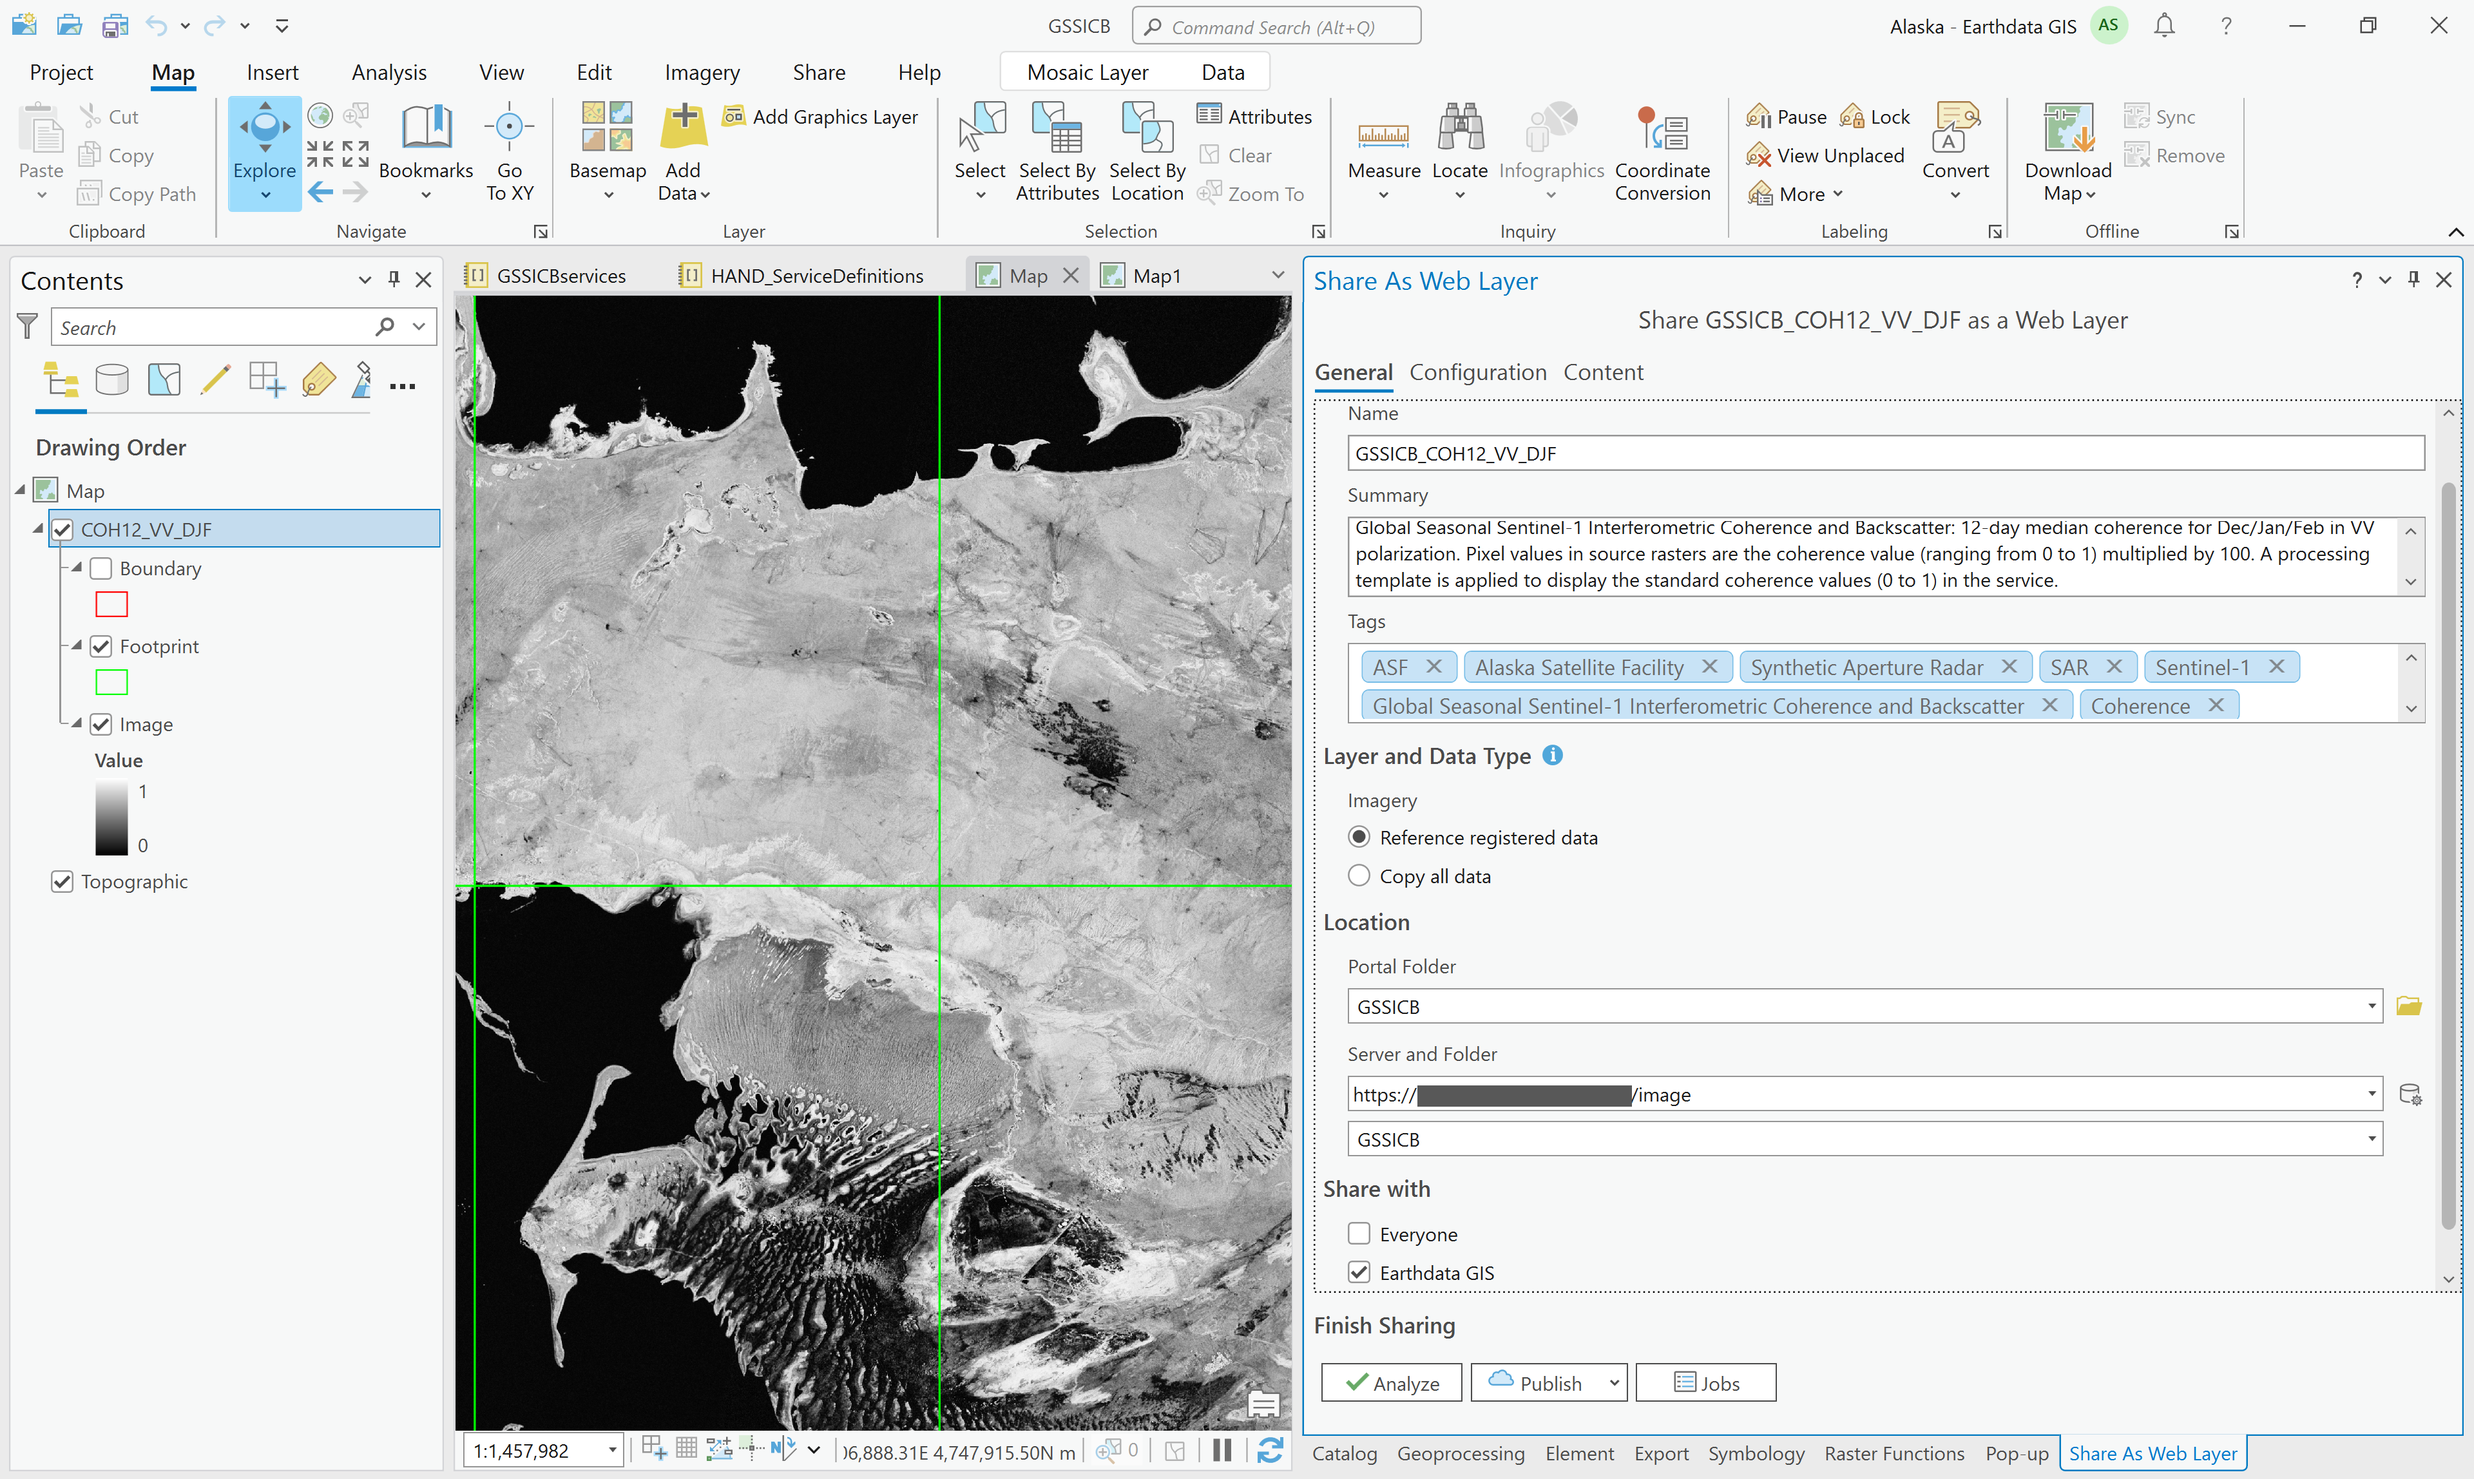
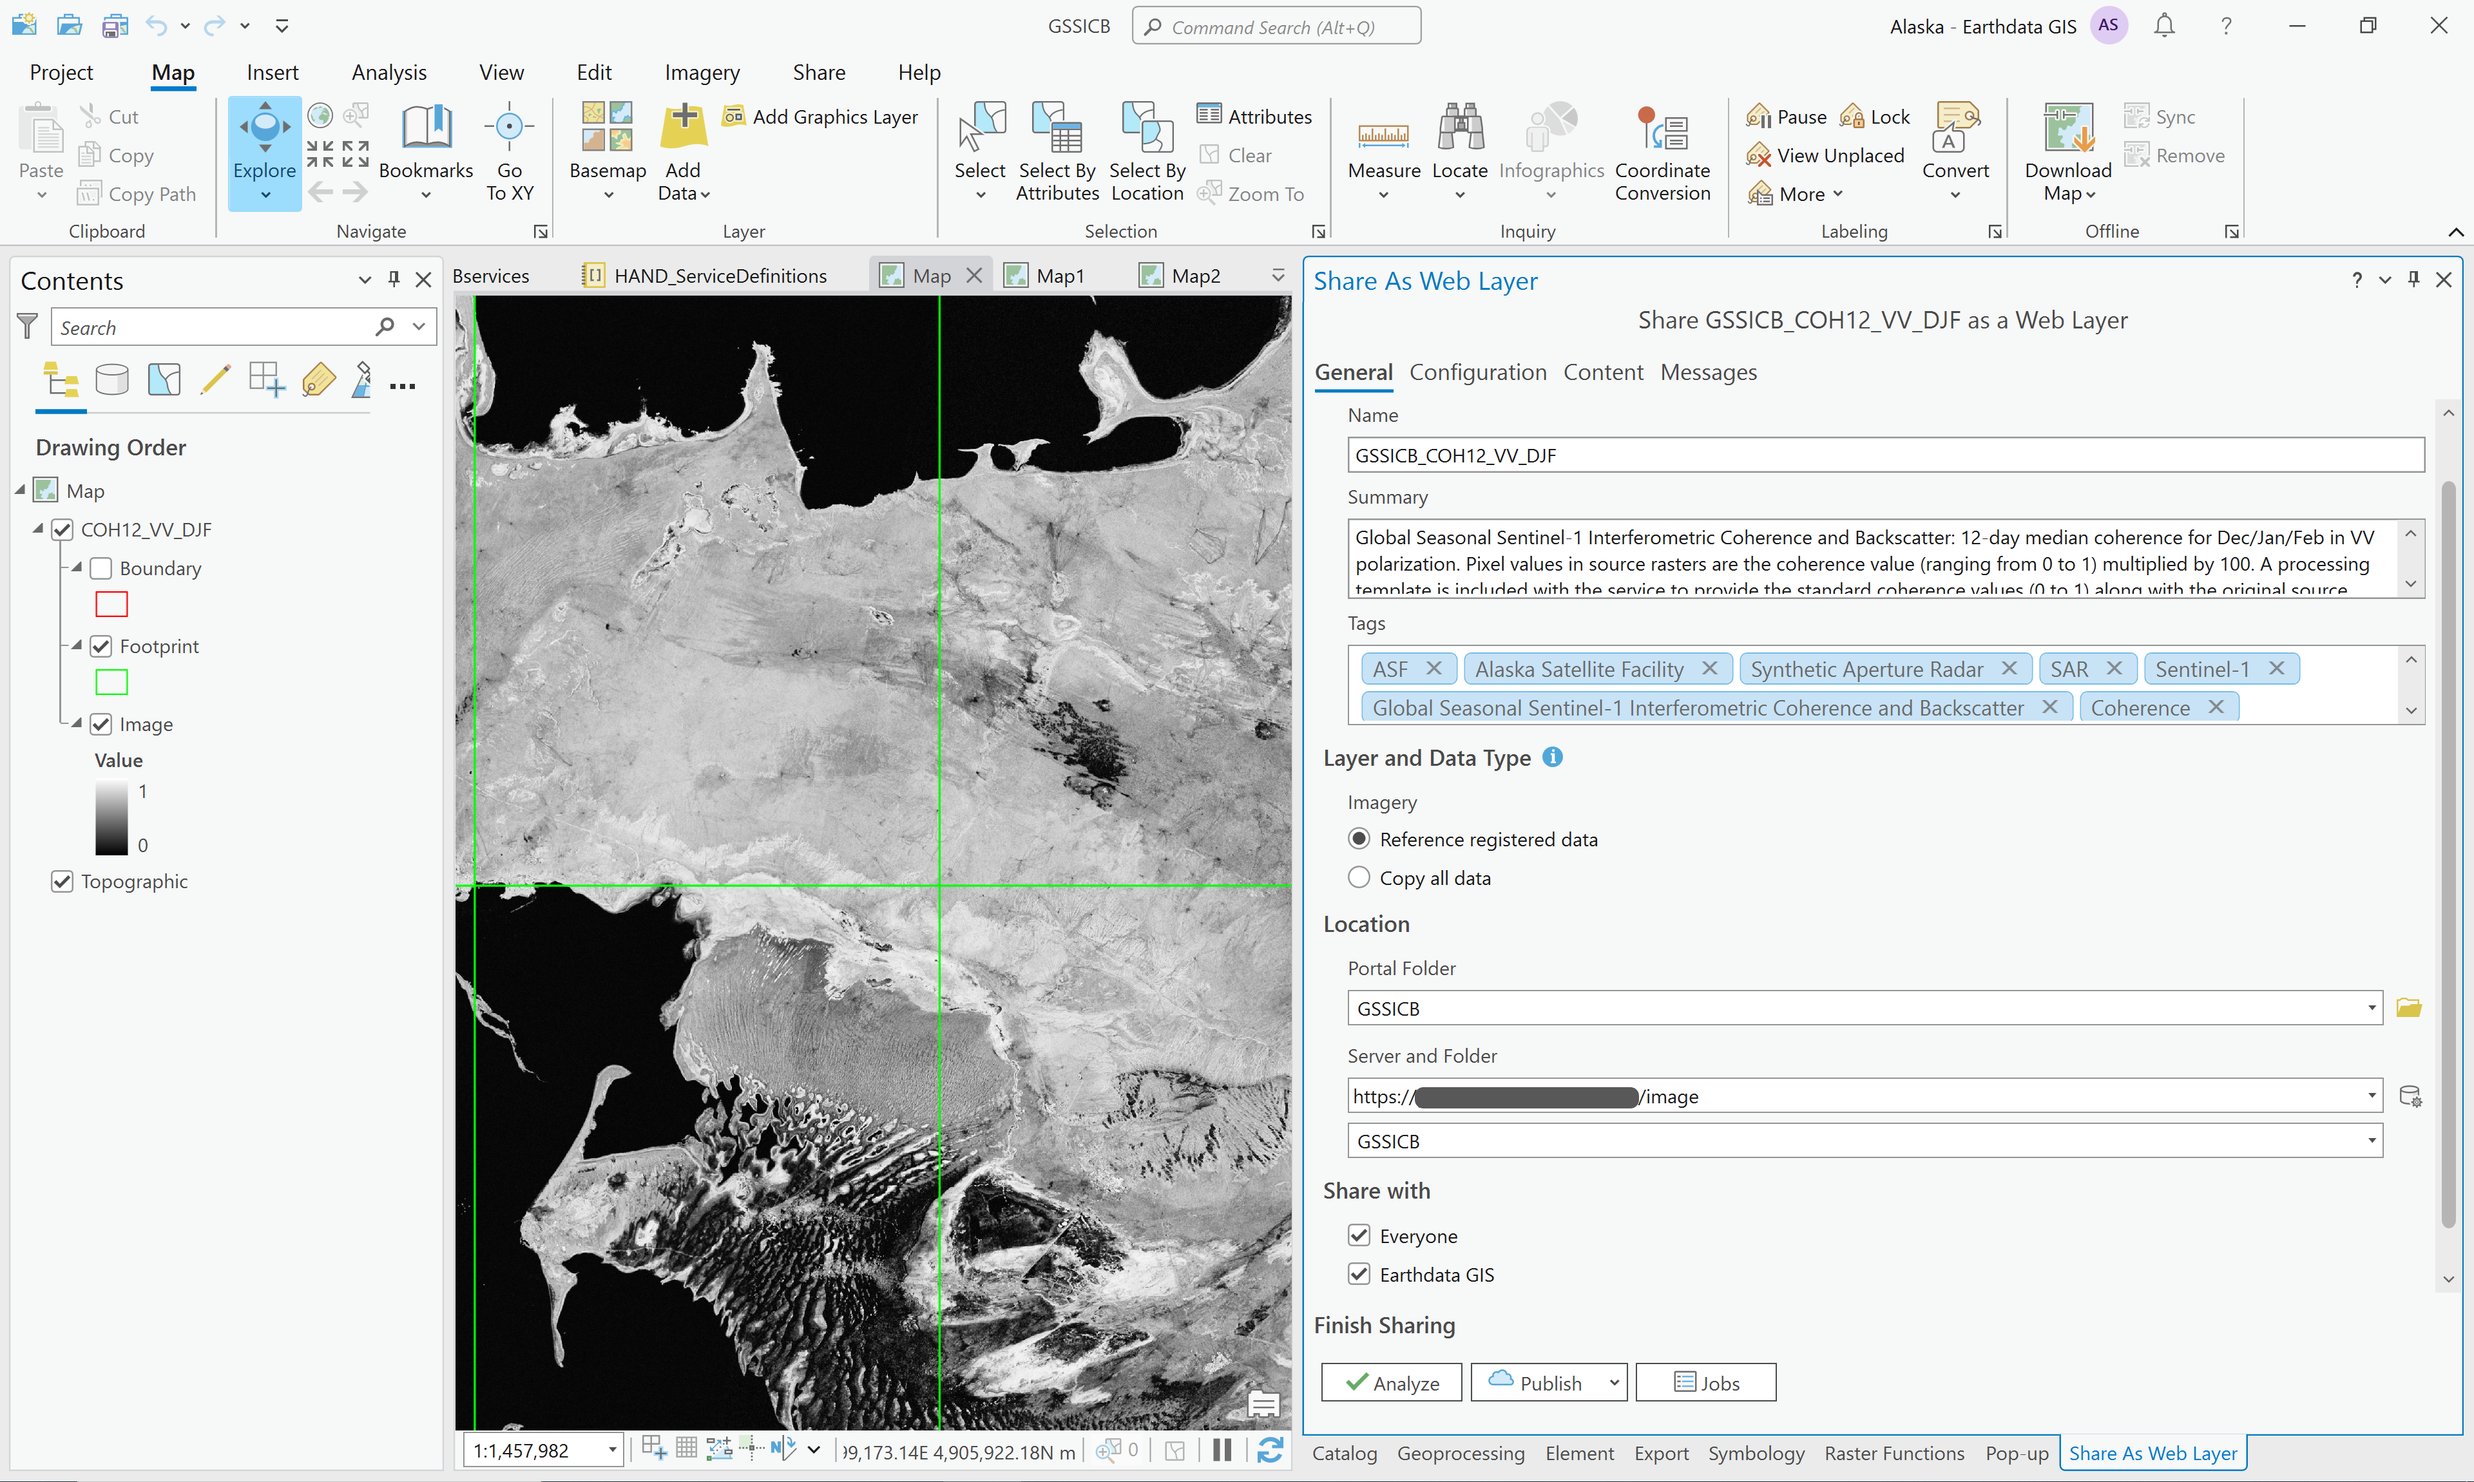
add step to repair pixel cache path and subdivide publishing section

diff --git a/image_services/egis/publishing_MDCS_to_EGIS.md b/image_services/egis/publishing_MDCS_to_EGIS.md
@@ -12,25 +12,48 @@ Publishers must add the NASA SIT Portal to their list of portals in ArcGIS. This
 5. Click OK
 6. Click on the options button for the portal, and choose to sign in. You will need to be on the VPN to work with this portal, including signing in.
 
-**It's easiest to connect to the NASA VPN first before creating the ArcGIS Project you'll be using for publishing, and always connect to the VPN before opening that project going forward.**
+**It's easiest to connect to the NASA VPN first before creating the ArcGIS Project you'll be using for publishing, and always connect to the VPN before opening that project going forward when the active portal is set to the SIT environment.**
 
-## Publish a Service
+*The same workflow is used for publishing to the NASA UAT Portal; simply connect to that portal in ArcGIS Pro rather than the NASA SIT Portal.*
+
+## Verify that the Mosaic Dataset paths are correct
 
 1. Navigate to the geodatabase with the mosaic dataset in the Catalog pane in ArcGIS Pro
 2. Expand the geodatabase to view the mosaic dataset
 3. Drag the mosaic dataset into the map view and verify that it behaves as expected
-4. Right-click the mosaic dataset in the Catalog pane, and select Edit Metadata
+   1. In many cases, the overviews will display correctly and the attribute table contains records for all of the source rasters, but the source rasters do not render. Zoom in to a single source raster, and make sure that it renders at all zoom levels.
+   2. If the source rasters render appropriately, skip the next step and proceed to editing the metadata
+
+## Repair Mosaic Dataset Pixel Cache Path (IF NECESSARY)
+
+If the source rasters do not render correctly, try repairing the path to the pixel cache in the mosaic dataset.
+
+1. Right-click on the Mosaic Dataset in the Table of Contents and select Data > Repair Mosaic Dataset Paths
+![Repair Paths](images/RepairPaths.PNG)
+2. Scroll to the path to the PixelCache directory, and replace it with a path on your local computer.
+![Pixel Cache Path](images/PixelCachePath.PNG)
+3. Click OK to exit the dialog
+
+## Edit the Metadata for the Mosaic Dataset
+
+1. Right-click the mosaic dataset in the Catalog pane, and select Edit Metadata
 ![Edit Metadata Figure](images/EditMetadata.PNG)
-5. Populate the Title, Tags, Summary, Description and Credits sections and click the Save button at the top of the window
-6. Right-click the mosaic dataset in the Catalog pane and select Share As Web Layer
+2. Populate the Title, Tags, Summary, Description and Credits sections and click the Save button at the top of the window
+
+## Publish the Mosaic Dataset as an Image Service
+
+1. Right-click the mosaic dataset in the Catalog pane and select Share As Web Layer
 ![Share As Web Layer](images/ShareAsWebLayer.PNG)
-7. Select the options in the General tab
+2. Set the options in the General tab
 ![Share As Web Layer Dialog](images/ShareAsWebLayerDialog.PNG)
    1. Set the Portal Folder to GSSICB
    2. Set the Server to https://url_to_gis_server/image (this is not the default in the Server dropdown menu, and if this is not changed, there will be a licensing error)
    3. Set the server Folder to GSSICB
-   4. Select Earthdata GIS under the Share options
-8. Click the Analyze button
+   4. Select Everyone and Earthdata GIS under the Share options
+3. Set the options in the Configuration tab
+![Configuration Settings](images/WMS.PNG)
+   1. Check the box next to WMS under the Additional Layers section
+4. Click the Analyze button
    1. There is the possibility that a number of errors and warnings will be identified.
 ![Unique Numeric IDs Error](images/UniqueNumericIDs.PNG)
       1. The licensing error occurs when the server option has not been changed to the /image option in the dropdown menu
@@ -38,7 +61,15 @@ Publishers must add the NASA SIT Portal to their list of portals in ArcGIS. This
       3. The data source is recognized as not being in a registered location, and will warn that the data will be copied to the server. This is fine. It's not copying all the source rasters, but just the metadata and other necessary data.
       4. Mosaic dataset items are not analyzed. This is also okay.
    2. If there are errors identified, they must be fixed before publishing is possible. Warnings do not need to be fixed (unless it identifies something that should be addressed, like missing metadata, etc.)
-9. Click the Publish button
-   1. It will take a while to stage and publish the service
-10. Once the publishing process is complete, the service will be listed in the portal in the Content tab, inside the GSSICB folder.
-    1. The item description contains all the metadata set in ArcGIS Pro. There's a link under the Layer section that takes you to the REST Endpoint metadata page.
+5. Click the Publish button
+6. It will take a while to stage and publish the service
+7. Once the publishing process is complete, the service will be listed in the portal in the Content tab, inside the GSSICB folder.
+   1. The item description contains all the metadata set in ArcGIS Pro. There's a link under the Layer section that takes you to the REST Endpoint metadata page.
+
+## Archive the Geodatabase
+
+Once the metadata has been added to the mosaic dataset, it should be zipped and uploaded to our [S3 Bucket](https://asf-gis-services.s3.us-west-2.amazonaws.com/GSSICB/)
+
+## Republish a Service from an Archived Geodatabase
+
+If the service needs to be republished, download the zipped gdb from the S3 bucket, unzip it, and follow the steps above, as necessary. 
